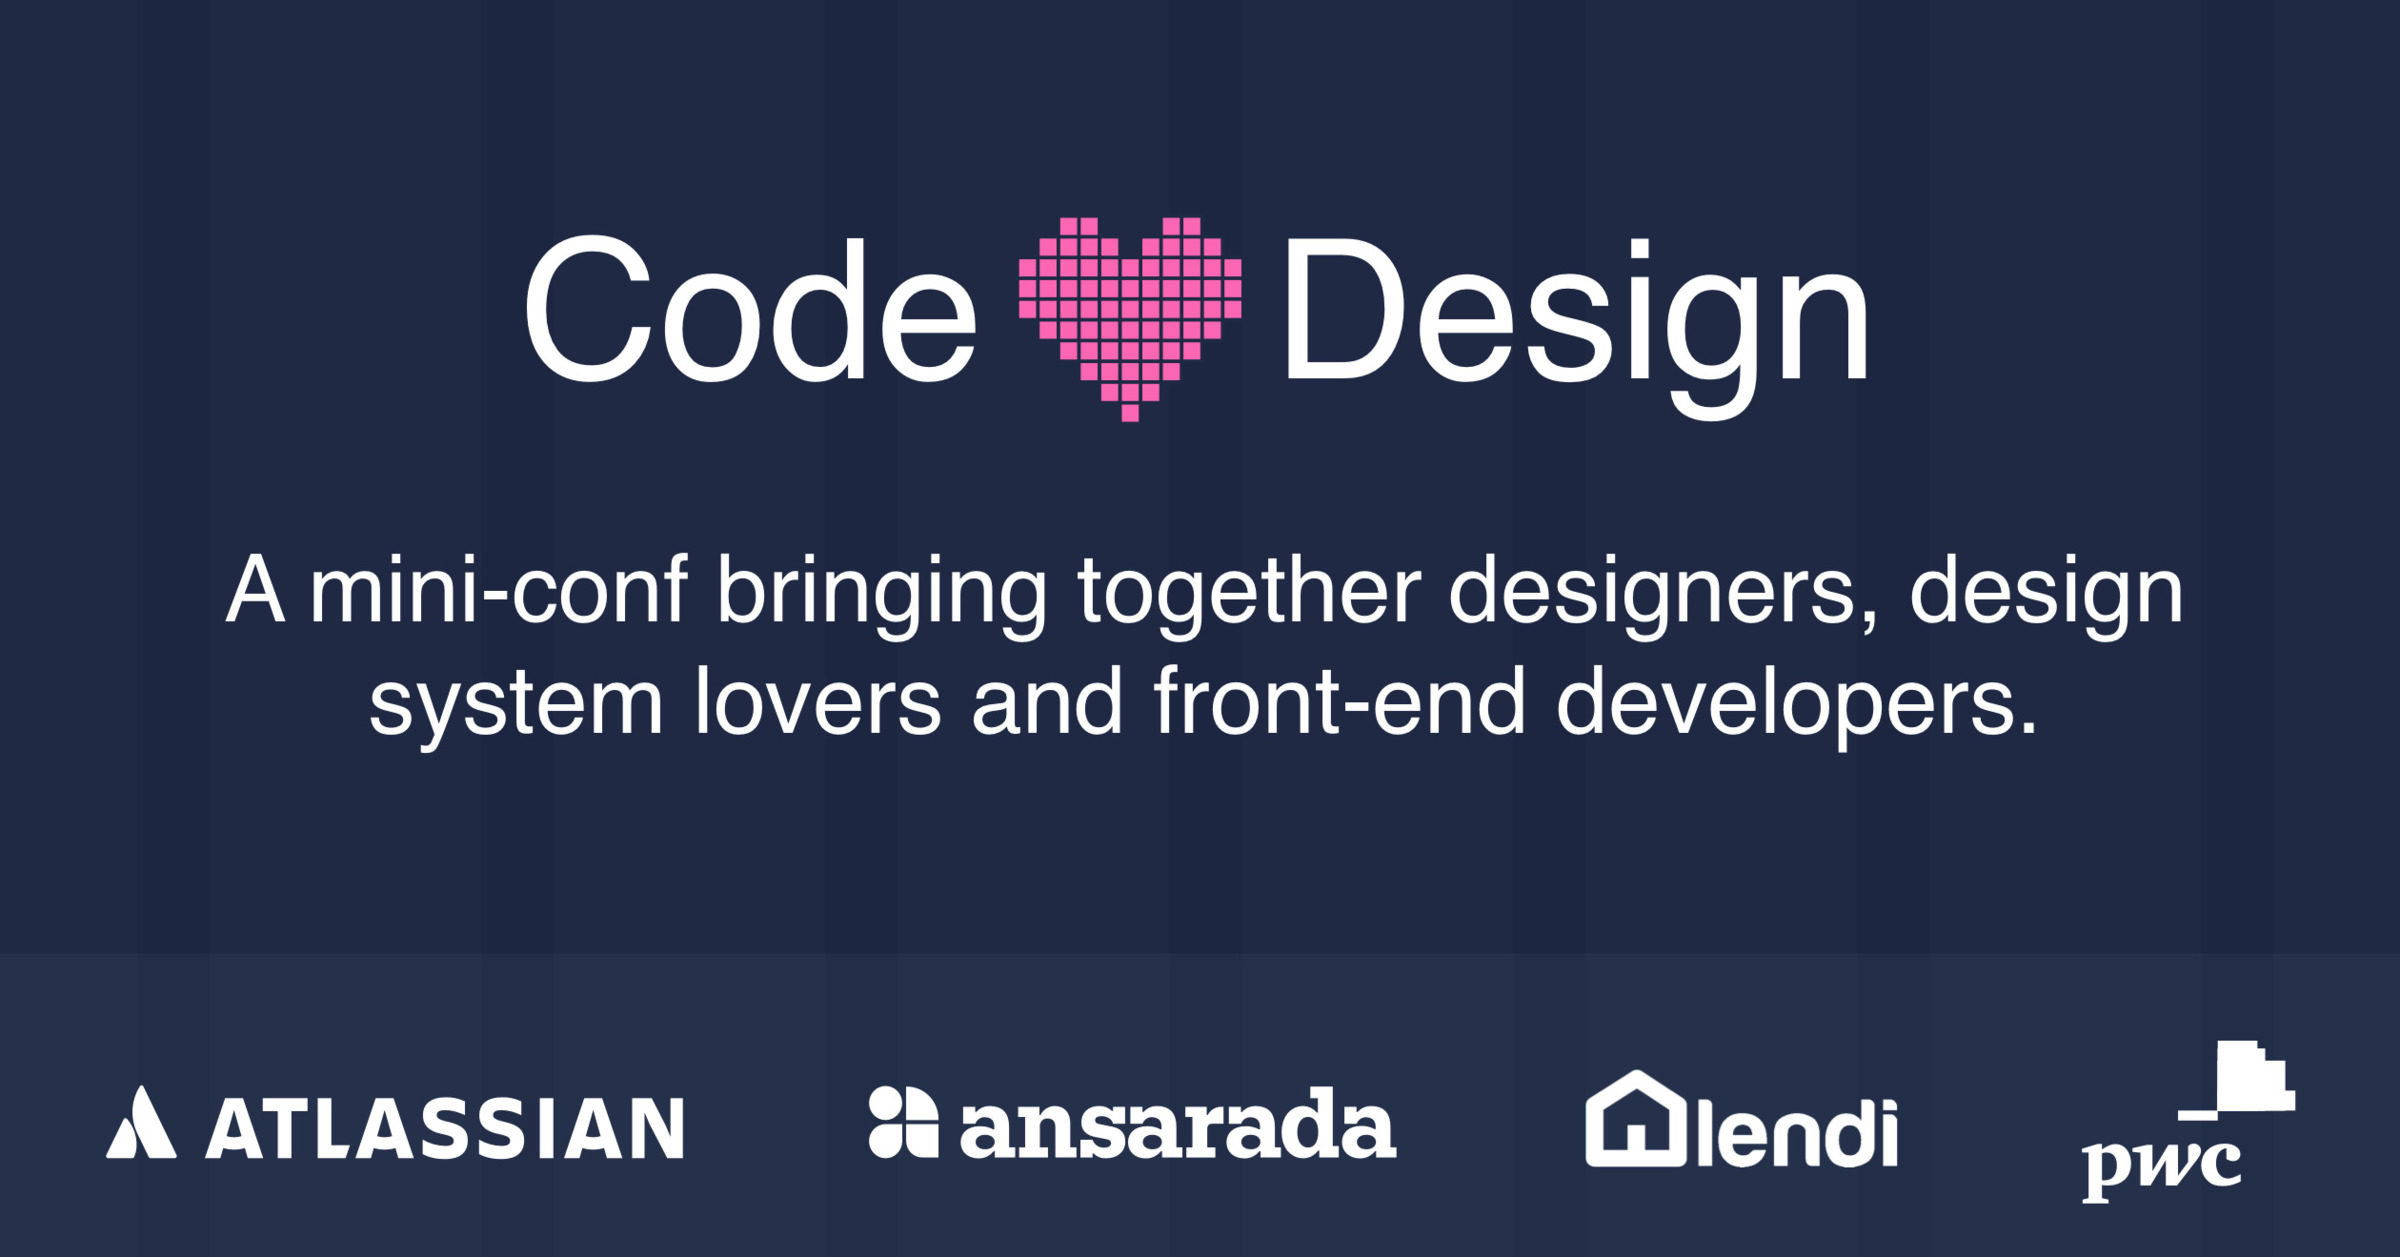
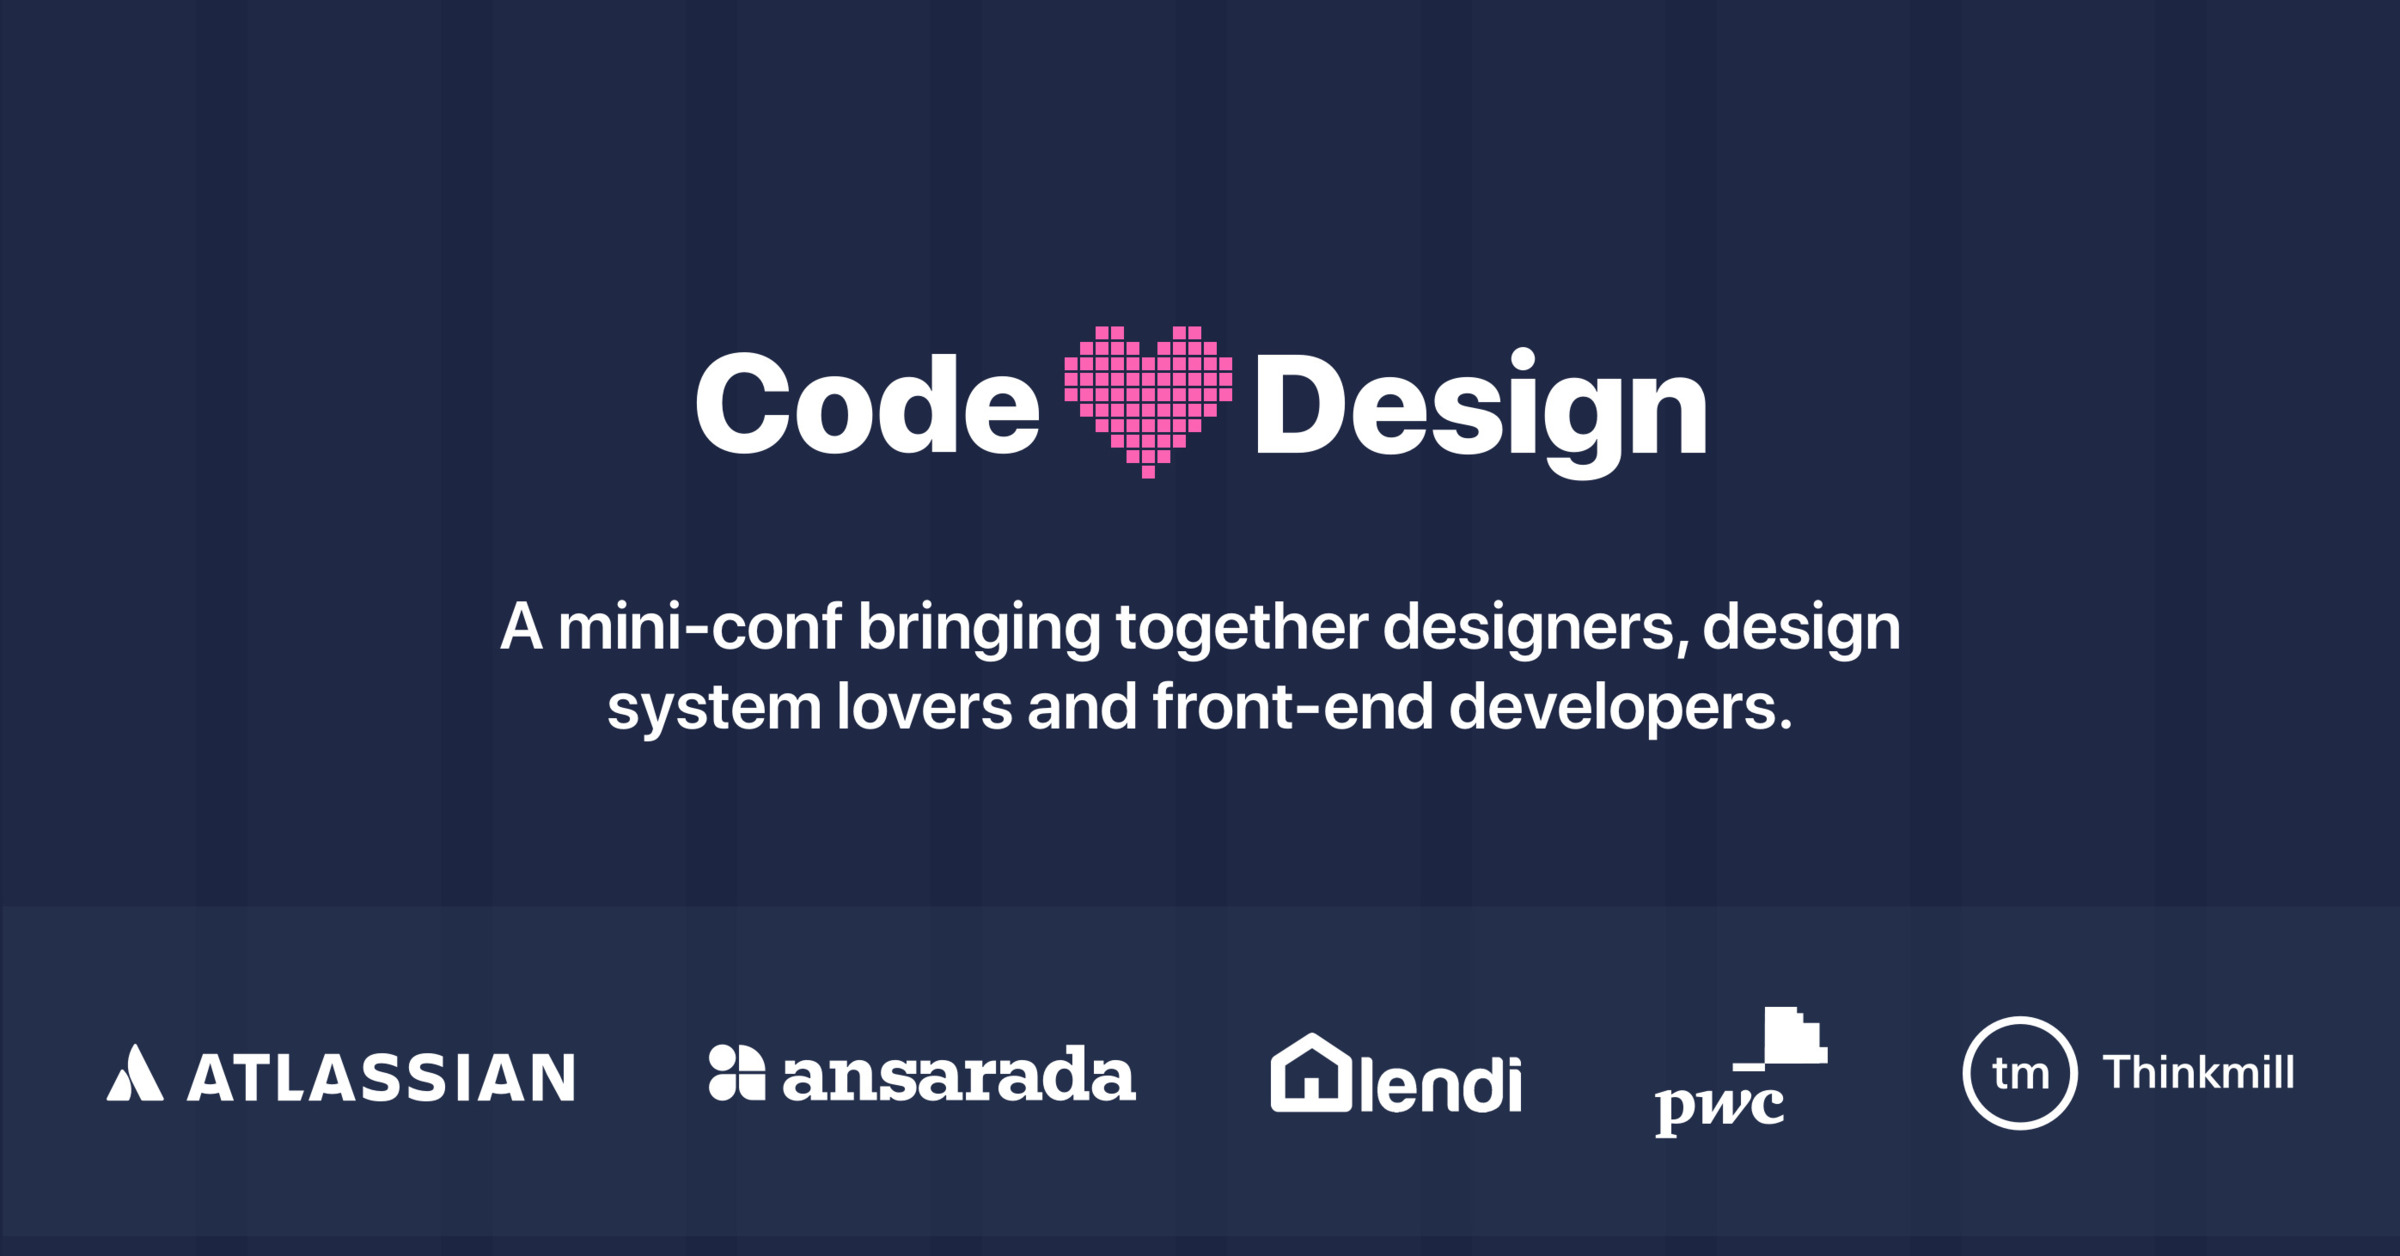
added pwc, ansarade blurbs, fixed og-image

Changed region(s): [[0.0938, 0.4347, 0.9062, 0.59], [0.2188, 0.1553, 0.7812, 0.4037], [0.0312, 0.8073, 0.9688, 0.9626]]

diff --git a/docs/index.html b/docs/index.html
@@ -46,11 +46,19 @@ from a place of understanding.</p>
 With over 100,000 global customers (including 85 of the Fortune 100), we<span class="markdown-quote">&rsquo;</span>re advancing the power of collaboration with products including Jira, Confluence,
 Bitbucket, and now Trello.
 Driven by honest values, an amazing culture, and consistent revenue growth, we<span class="markdown-quote">&rsquo;</span>re out to unleash the potential of every team.</p>
-<p><a href="https://www.atlassian.com/" target="_blank" rel="noopener noreferrer">https://www.atlassian.com/</a></p></div></li><li class="row-h content gridgap sponsortier-item" itemProp="sponsor" itemType="http://schema.org/Organization"><meta itemProp="name" content="Ansarada"/><div class="sponsortier-logo"><a href="https://www.ansarada.com/" target="_blank" rel="noopener noreferrer" itemProp="url"><svg role="img" title="Ansarada"><use xlink:href="assets/svg/sprite.svg?v2#ansarada"></use></svg></a></div><div class="sponsortier-blurb"><p><a href="https://www.ansarada.com/" target="_blank" rel="noopener noreferrer">https://www.ansarada.com/</a></p></div></li><li class="row-h content gridgap sponsortier-item" itemProp="sponsor" itemType="http://schema.org/Organization"><meta itemProp="name" content="Lendi"/><div class="sponsortier-logo"><a href="https://www.lendi.com.au/" target="_blank" rel="noopener noreferrer" itemProp="url"><svg role="img" title="Lendi"><use xlink:href="assets/svg/sprite.svg?v2#lendi"></use></svg></a></div><div class="sponsortier-blurb"><p>Lendi is Australia<span class="markdown-quote">&rsquo;</span>s number one home loan platform, bringing together technology and home loan specialist advice to help Australians search, choose and
+<p><a href="https://www.atlassian.com/" target="_blank" rel="noopener noreferrer">https://www.atlassian.com/</a></p></div></li><li class="row-h content gridgap sponsortier-item" itemProp="sponsor" itemType="http://schema.org/Organization"><meta itemProp="name" content="Ansarada"/><div class="sponsortier-logo"><a href="https://www.ansarada.com/" target="_blank" rel="noopener noreferrer" itemProp="url"><svg role="img" title="Ansarada"><use xlink:href="assets/svg/sprite.svg?v2#ansarada"></use></svg></a></div><div class="sponsortier-blurb"><p>Ansarada is a founder-led, fast-growth global technology company on a mission to raise and protect potential.
+Our team has a singular vision and a passion for what we do <span class="markdown-ndash">&ndash;</span> design and engineer powerful but simple software that gives our clients complete confidence
+during their most important transactions.</p>
+<p><a href="https://www.ansarada.com/" target="_blank" rel="noopener noreferrer">https://www.ansarada.com/</a></p></div></li><li class="row-h content gridgap sponsortier-item" itemProp="sponsor" itemType="http://schema.org/Organization"><meta itemProp="name" content="Lendi"/><div class="sponsortier-logo"><a href="https://www.lendi.com.au/" target="_blank" rel="noopener noreferrer" itemProp="url"><svg role="img" title="Lendi"><use xlink:href="assets/svg/sprite.svg?v2#lendi"></use></svg></a></div><div class="sponsortier-blurb"><p>Lendi is Australia<span class="markdown-quote">&rsquo;</span>s number one home loan platform, bringing together technology and home loan specialist advice to help Australians search, choose and
 settle their home loans online.
 The platform uses smart technology to search more than 2,500 loan products from 37 lenders and provide a shortlist of options suited to the individual<span class="markdown-quote">&rsquo;</span>s
 circumstances.</p>
-<p><a href="https://www.lendi.com.au/" target="_blank" rel="noopener noreferrer">https://www.lendi.com.au/</a></p></div></li><li class="row-h content gridgap sponsortier-item" itemProp="sponsor" itemType="http://schema.org/Organization"><meta itemProp="name" content="PWC"/><div class="sponsortier-logo"><a href="https://www.pwc.com.au/" target="_blank" rel="noopener noreferrer" itemProp="url"><svg role="img" title="PWC"><use xlink:href="assets/svg/sprite.svg?v2#pwc"></use></svg></a></div><div class="sponsortier-blurb"><p><a href="https://www.pwc.com.au/" target="_blank" rel="noopener noreferrer">https://www.pwc.com.au/</a></p></div></li></ul><ul class="row list content gridgap sponsortier"><li class="row-h content gridgap sponsortier-item" itemProp="sponsor" itemType="http://schema.org/Organization"><meta itemProp="name" content="Interplay"/><div class="sponsortier-logo"><a href="https://interplayapp.com/" target="_blank" rel="noopener noreferrer" itemProp="url"><svg role="img" title="Interplay"><use xlink:href="assets/svg/sprite.svg?v2#interplay"></use></svg></a></div><div class="sponsortier-blurb"><p>Design and prototype in the browser, using your design system code components.
+<p><a href="https://www.lendi.com.au/" target="_blank" rel="noopener noreferrer">https://www.lendi.com.au/</a></p></div></li><li class="row-h content gridgap sponsortier-item" itemProp="sponsor" itemType="http://schema.org/Organization"><meta itemProp="name" content="PWC"/><div class="sponsortier-logo"><a href="https://www.pwc.com.au/" target="_blank" rel="noopener noreferrer" itemProp="url"><svg role="img" title="PWC"><use xlink:href="assets/svg/sprite.svg?v2#pwc"></use></svg></a></div><div class="sponsortier-blurb"><p>PwC is one of Australia&#39;s leading professional services firms, bringing the power of our global network of firms to help Australian businesses,
+not-for-profit organisations and governments assess their performance and improve the way they work.
+From improving the structure of the Australian health system, to performing due diligence on some of Australia&#39;s largest deals, and working side-by-side
+with entrepreneurs and high-net-worth individuals, our teams bring a unique combination of knowledge and passion to address the challenges and
+opportunities that face our community.</p>
+<p><a href="https://www.pwc.com.au/" target="_blank" rel="noopener noreferrer">https://www.pwc.com.au/</a></p></div></li></ul><ul class="row list content gridgap sponsortier"><li class="row-h content gridgap sponsortier-item" itemProp="sponsor" itemType="http://schema.org/Organization"><meta itemProp="name" content="Interplay"/><div class="sponsortier-logo"><a href="https://interplayapp.com/" target="_blank" rel="noopener noreferrer" itemProp="url"><svg role="img" title="Interplay"><use xlink:href="assets/svg/sprite.svg?v2#interplay"></use></svg></a></div><div class="sponsortier-blurb"><p>Design and prototype in the browser, using your design system code components.
 Drag-and-drop React, Vue and Angular components into responsive prototypes and start user testing immediately.
 Workshop details coming soon.</p>
 <p><a href="https://interplayapp.com/" target="_blank" rel="noopener noreferrer">https://interplayapp.com/</a></p></div></li></ul><ul class="row list content gridgap sponsortier"><li class="row-h content gridgap sponsortier-item" itemProp="sponsor" itemType="http://schema.org/Organization"><meta itemProp="name" content="Invision"/><div class="sponsortier-logo"><a href="https://www.invisionapp.com/" target="_blank" rel="noopener noreferrer" itemProp="url"><svg role="img" title="Invision"><use xlink:href="assets/svg/sprite.svg?v2#invision"></use></svg></a></div><div class="sponsortier-blurb"><p><a href="https://www.invisionapp.com/" target="_blank" rel="noopener noreferrer">https://www.invisionapp.com/</a></p></div></li></ul><ul class="row list content gridgap sponsortier"><li class="row-h content gridgap sponsortier-item" itemProp="sponsor" itemType="http://schema.org/Organization"><meta itemProp="name" content="Expert360"/><div class="sponsortier-logo"><a href="https://expert360.com/" target="_blank" rel="noopener noreferrer" itemProp="url"><svg role="img" title="Expert360"><use xlink:href="assets/svg/sprite.svg?v2#expert360"></use></svg></a></div><div class="sponsortier-blurb"><p><a href="https://expert360.com/" target="_blank" rel="noopener noreferrer">https://expert360.com/</a></p></div></li><li class="row-h content gridgap sponsortier-item" itemProp="sponsor" itemType="http://schema.org/Organization"><meta itemProp="name" content="Lookahead"/><div class="sponsortier-logo"><a href="https://www.lookahead.com.au/" target="_blank" rel="noopener noreferrer" itemProp="url"><svg role="img" title="Lookahead"><use xlink:href="assets/svg/sprite.svg?v2#lookahead"></use></svg></a></div><div class="sponsortier-blurb"><p>Technical recruiters who are actually technical. We hire front end, Javascript and Ruby developers.</p>

diff --git a/content/index/sponsors.md b/content/index/sponsors.md
@@ -14,6 +14,9 @@ gold:
     svg: ansarada
     url: https://www.ansarada.com/
     blurb: |
+      Ansarada is a founder-led, fast-growth global technology company on a mission to raise and protect potential.
+      Our team has a singular vision and a passion for what we do – design and engineer powerful but simple software that gives our clients complete confidence
+      during their most important transactions.
   - name: Lendi
     svg: lendi
     url: https://www.lendi.com.au/
@@ -26,6 +29,11 @@ gold:
     svg: pwc
     url: https://www.pwc.com.au/
     blurb: |
+      PwC is one of Australia's leading professional services firms, bringing the power of our global network of firms to help Australian businesses,
+      not-for-profit organisations and governments assess their performance and improve the way they work.
+      From improving the structure of the Australian health system, to performing due diligence on some of Australia's largest deals, and working side-by-side
+      with entrepreneurs and high-net-worth individuals, our teams bring a unique combination of knowledge and passion to address the challenges and
+      opportunities that face our community.
 silver:
   - name: Interplay
     svg: interplay
